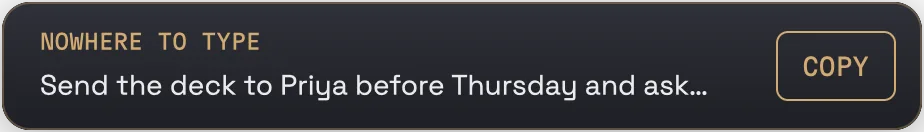
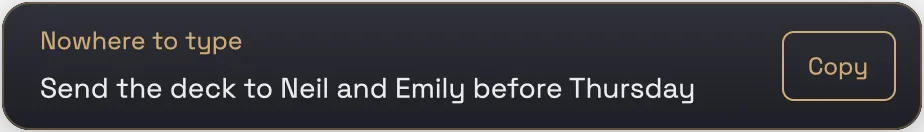
Preview text with Neil and Emily; README pictures recaptured with the sentence-case labels

Changed region(s): [[0.0303, 0.5455, 0.7879, 0.7879], [0.0303, 0.2424, 0.303, 0.4242], [0.8182, 0.2424, 0.9394, 0.7576]]

diff --git a/src/main.rs b/src/main.rs
@@ -363,7 +363,7 @@ fn main() {
         std::thread::spawn(move || {
             std::thread::sleep(Duration::from_secs(5));
             let mut s = state.lock().unwrap();
-            s.draft = "So the plan for Thursday is that we meet the venue people at ten, walk the space, and then decide on the layout before lunch with Priya.".into();
+            s.draft = "So the plan for Thursday is that we meet the venue people at ten, walk the space, and then decide on the layout before lunch with Neil and Emily.".into();
             s.draft_until = Some(Instant::now() + Duration::from_secs(20));
         });
     }
@@ -372,7 +372,7 @@ fn main() {
         let state = state.clone();
         std::thread::spawn(move || {
             std::thread::sleep(Duration::from_secs(5));
-            let text = "Send the deck to Priya before Thursday and ask about the venue";
+            let text = "Send the deck to Neil and Emily before Thursday";
             state.lock().unwrap().held = Some((text.into(), Instant::now()));
         });
     }
